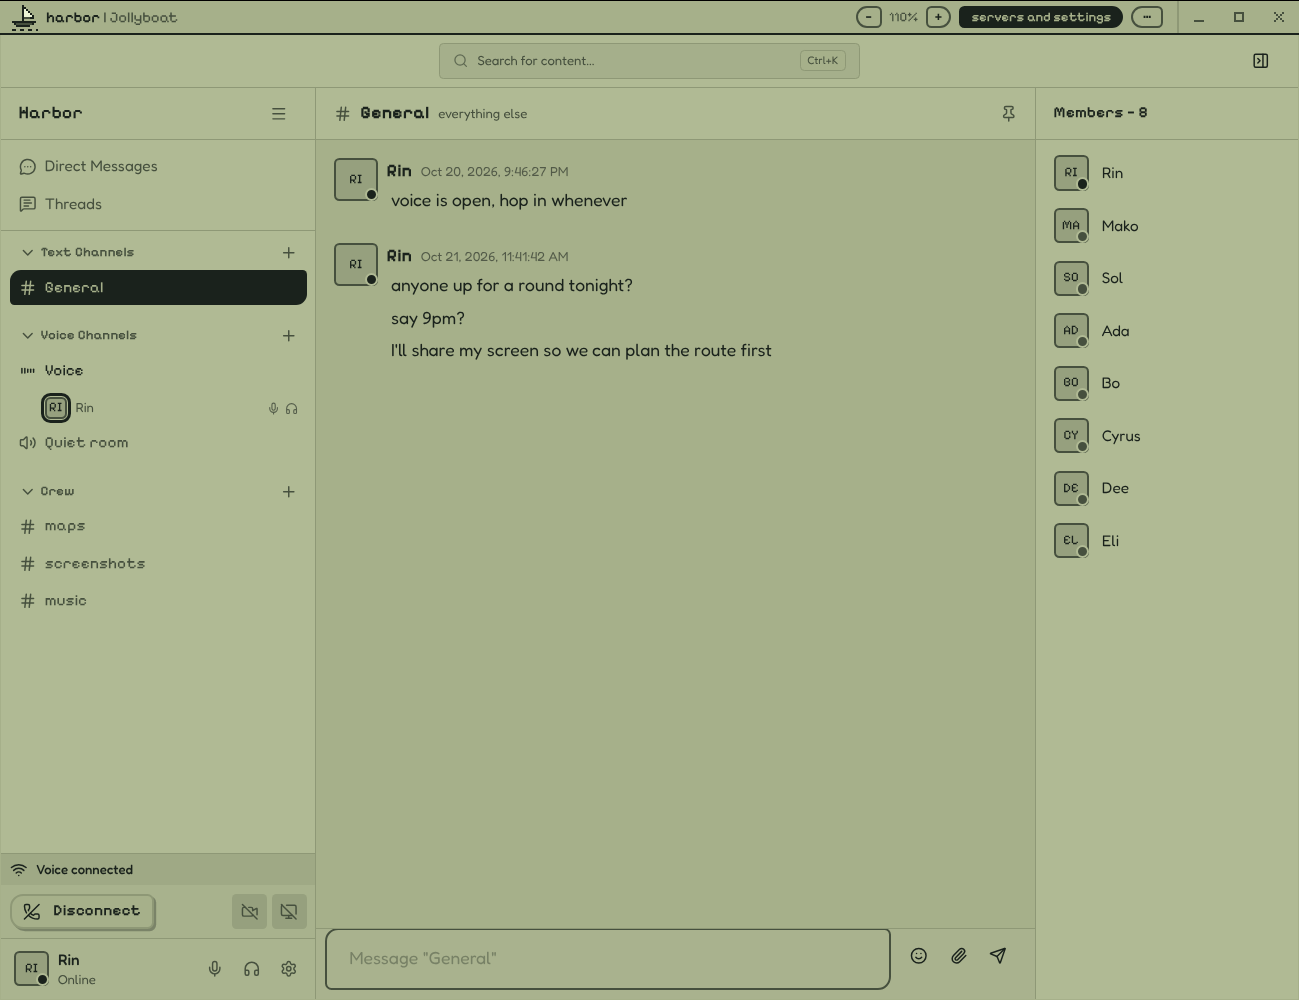
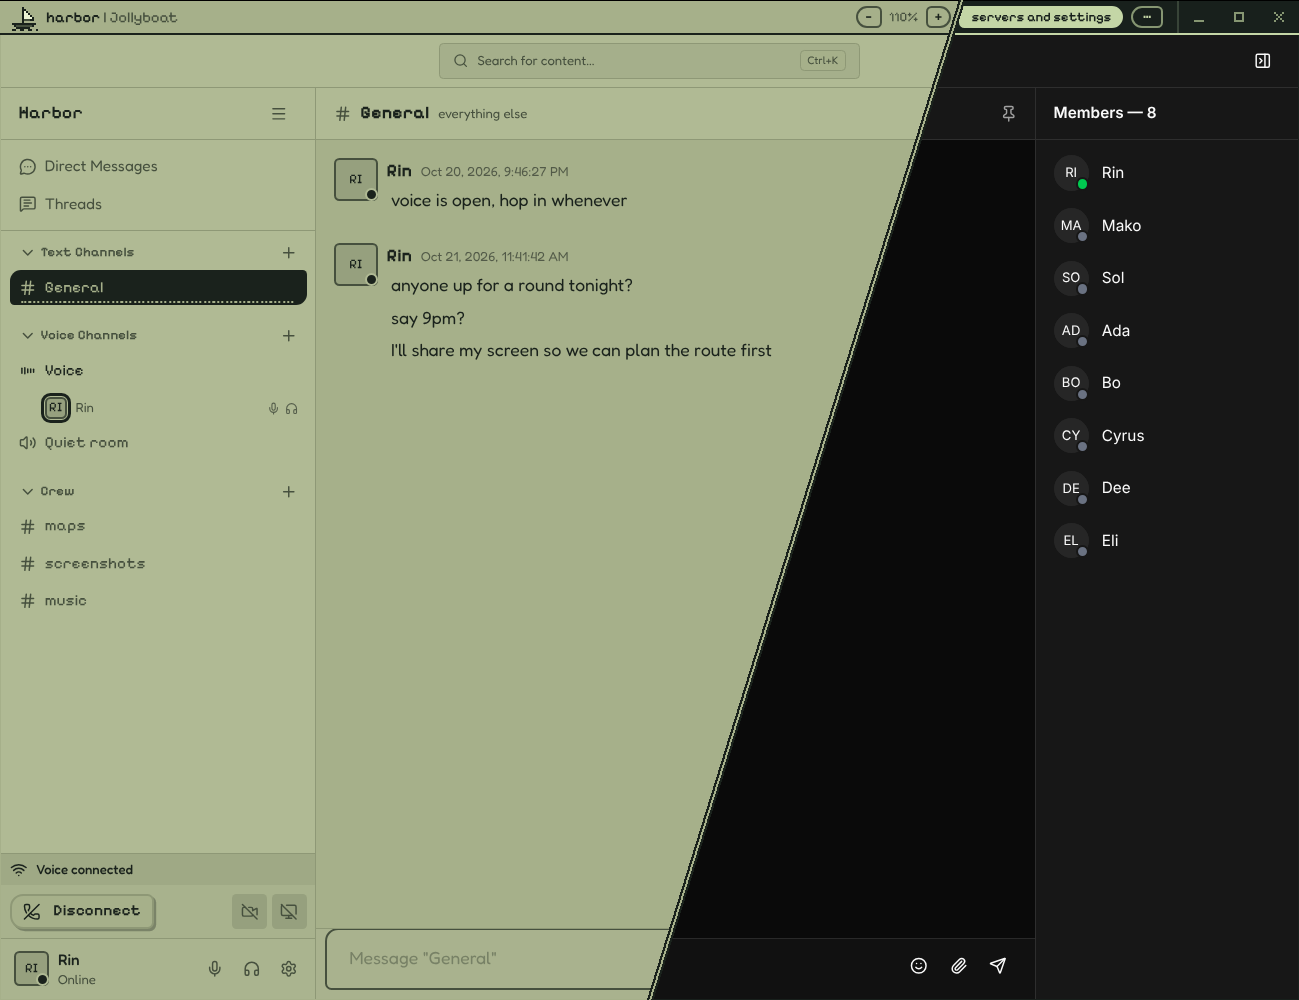
Jollyboat theme moves a little; overlay transparency; no mic check; split screenshot
- the theme takes some of the setup window's motion, all in small steps: the talking outline
  steps out and back (quicker when louder), the active channel gets the bar mark's drifting
  water line, settings cards breathe like the setup panels (and take their shape), menus and
  dialogs rise in, switches snap; a faint lcd grid behind it all. nothing moves with
  prefers-reduced-motion
- the overlay's slider is its transparency now (0 = solid; still stored as opacity)
- the mic check is gone from the settings: Sharkord has its own
- README: the screenshot shows the same server split diagonally, Jollyboat theme on the left,
  Sharkord's own look on the right; fresh settings screenshot

Claude-Session: https://claude.ai/code/session_01QEMnCDTKkcJ4ZdL3ogefjx

diff --git a/resources/themes/lcd.css b/resources/themes/lcd.css
@@ -165,11 +165,13 @@ html .border-r, html .border-l, html .border-b, html .border-t, html .border { b
 
 /* ---- voice ------------------------------------------------------------------------------ */
 
-/* who is talking: an ink outline on the avatar, the louder the thicker, no glow */
-html .speaking-effect-low, html .speaking-effect-medium, html .speaking-effect-high { animation: none; box-shadow: none; }
-html .speaking-effect-low { outline: 2px solid var(--jb-ink); outline-offset: 1px; }
-html .speaking-effect-medium { outline: 3px solid var(--jb-ink); outline-offset: 1px; }
-html .speaking-effect-high { outline: 4px solid var(--jb-ink); outline-offset: 1px; }
+/* who is talking: an ink outline on the avatar that steps out and back like a sound wave on
+   an lcd, the louder the thicker and the quicker. no glow */
+html .speaking-effect-low, html .speaking-effect-medium, html .speaking-effect-high { box-shadow: none; outline-style: solid; outline-color: var(--jb-ink); }
+html .speaking-effect-low { outline-width: 2px; animation: jb-talk 1.2s steps(2, jump-none) infinite; }
+html .speaking-effect-medium { outline-width: 3px; animation: jb-talk 0.8s steps(2, jump-none) infinite; }
+html .speaking-effect-high { outline-width: 4px; animation: jb-talk 0.5s steps(2, jump-none) infinite; }
+@keyframes jb-talk { from { outline-offset: 1px; } to { outline-offset: 3px; } }
 
 /* the few places sharkord colours directly: greens and reds become ink and the one warm tone */
 html [class*="text-green-"], html [class*="text-blue-"], html [class*="text-purple-"] { color: var(--foreground); }
@@ -178,6 +180,52 @@ html .bg-green-500 { background: var(--foreground); }
 html .bg-gray-500, html .bg-yellow-500 { background: var(--jb-dim); }
 html .bg-red-500 { background: var(--destructive); }
 html .border-card { border-color: var(--card); }
+
+/* ---- motion: the setup window's, in small steps ----------------------------------------- */
+
+/* the backdrop: the faint lcd grid of the setup window's paper */
+html body {
+  background-image:
+    linear-gradient(to right, color-mix(in srgb, var(--jb-ink) 5%, transparent) 1px, transparent 1px),
+    linear-gradient(to bottom, color-mix(in srgb, var(--jb-ink) 5%, transparent) 1px, transparent 1px);
+  background-size: 6px 6px;
+}
+
+/* cards (settings, profile) breathe a pixel or two in three steps, like the setup panels */
+html [data-slot="card"] {
+  border: 2px solid var(--jb-ink);
+  border-radius: 26px 12px 24px 14px;
+  box-shadow: 4px 4px 0 var(--jb-shadow);
+  animation: jb-breathe 9s steps(3, jump-none) infinite alternate;
+}
+html [data-slot="card"]:nth-of-type(even) { border-radius: 12px 26px 14px 24px; animation-direction: alternate-reverse; }
+@keyframes jb-breathe { from { transform: translate(0, 0); } to { transform: translate(2px, -2px); } }
+
+/* popovers, menus and dialogs rise in like a setup panel */
+html [data-slot="popover-content"][data-state="open"], html [data-slot="dropdown-menu-content"][data-state="open"],
+html [data-slot="context-menu-content"][data-state="open"], html [data-slot="select-content"][data-state="open"],
+html [data-slot="dialog-content"][data-state="open"], html [data-slot="alert-dialog-content"][data-state="open"] {
+  animation: jb-rise 180ms steps(3, jump-none) both;
+}
+@keyframes jb-rise { from { opacity: 0; translate: 0 6px; } to { opacity: 1; translate: 0 0; } }
+
+/* the channel you are on: the bar mark's water drifting under it, a pixel every 0.4 s */
+html [data-testid="channel-item"].bg-accent { position: relative; }
+html [data-testid="channel-item"].bg-accent::after {
+  content: ''; position: absolute; left: 10px; right: 10px; bottom: 2px; height: 2px; pointer-events: none;
+  background: repeating-linear-gradient(to right, var(--background) 0 2px, transparent 2px 4px);
+  animation: jb-drift 1.6s steps(4) infinite;
+}
+@keyframes jb-drift { from { background-position: 0 0; } to { background-position: 4px 0; } }
+
+/* switches and checkboxes snap over in two steps instead of sliding */
+html [data-slot="switch-thumb"] { transition: transform 120ms steps(2, jump-none); }
+
+/* anyone who asked their system for less motion gets none of it */
+@media (prefers-reduced-motion: reduce) {
+  html [data-slot="card"], html .speaking-effect-low, html .speaking-effect-medium, html .speaking-effect-high,
+  html [data-state="open"], html [data-testid="channel-item"].bg-accent::after { animation: none; }
+}
 
 /* ---- scrollbars ------------------------------------------------------------------------ */
 

diff --git a/src/renderer/launcher/main.ts b/src/renderer/launcher/main.ts
@@ -341,15 +341,16 @@ const renderSettings = async () => {
   $('css-edit').onclick = async () => { await window.shell.editCustomCss(); toast(t('opened in your editor')); };
   $('css-example').onclick = async () => { await window.shell.useCssExample(); toast(t('lcd theme in custom.css')); };
 
-  // voice overlay: on/off and its background; the slider saves as it moves (a little later)
+  // voice overlay: on/off and its transparency; the slider saves as it moves (a little later)
   const overlay = $<HTMLInputElement>('overlay');
   const opacity = $<HTMLInputElement>('overlay-opacity');
+  // the slider is the transparency (0 = solid); stored as the background's opacity
   const showOpacity = () => {
     $('overlay-opacity-value').textContent = `${opacity.value}%`;
     opacity.style.setProperty('--fill', `${opacity.value}%`);
   };
   overlay.checked = settings.overlay;
-  opacity.value = String(settings.overlayOpacity);
+  opacity.value = String(100 - settings.overlayOpacity);
   $('overlay-options').hidden = !overlay.checked;
   if (window.shell.wayland) $('overlay-hint').textContent = t('on top of other windows while you are in a call and Jollyboat is in the background | clicks go through it | on wayland the desktop places it (kde: a window rule keeps it in place and on top)');
   showOpacity();
@@ -365,66 +366,9 @@ const renderSettings = async () => {
   opacity.oninput = () => {
     showOpacity();
     clearTimeout(opacityTimer);
-    opacityTimer = window.setTimeout(() => window.shell.saveSettings({ overlayOpacity: Number(opacity.value) }), 120);
+    opacityTimer = window.setTimeout(() => window.shell.saveSettings({ overlayOpacity: 100 - Number(opacity.value) }), 120);
   };
 
-  // mic check: the level of the default microphone for a few seconds, no server involved
-  const meter = $('mic-meter');
-  const SEGMENTS = 16;
-  meter.replaceChildren(...Array.from({ length: SEGMENTS }, () => document.createElement('i')));
-  const segments = Array.from(meter.children) as HTMLElement[];
-  let micStop: (() => void) | null = null;
-  const showLevel = (level: number, peak: number) => {
-    const lit = Math.round(level * SEGMENTS);
-    const held = Math.round(peak * SEGMENTS);
-    segments.forEach((s, i) => {
-      s.classList.toggle('on', i < lit);
-      s.classList.toggle('peak', i === held - 1 && i >= lit);
-    });
-  };
-  $('mic-test').onclick = async () => {
-    if (micStop) return micStop();
-    let stream: MediaStream;
-    try {
-      stream = await navigator.mediaDevices.getUserMedia({ audio: true });
-    } catch {
-      hint($('mic-status'), t('no microphone'), 'bad');
-      return;
-    }
-    const ctx = new AudioContext();
-    const analyser = ctx.createAnalyser();
-    analyser.fftSize = 512;
-    ctx.createMediaStreamSource(stream).connect(analyser);
-    const samples = new Float32Array(analyser.fftSize);
-    const started = performance.now();
-    let peak = 0;
-    let frame = 0;
-    const tick = () => {
-      analyser.getFloatTimeDomainData(samples);
-      let sum = 0;
-      for (const v of samples) sum += v * v;
-      // rms on a log scale: quiet speech lights a few blocks, a shout all of them
-      const db = 20 * Math.log10(Math.sqrt(sum / samples.length) + 1e-6);
-      const level = Math.min(1, Math.max(0, (db + 50) / 50));
-      peak = Math.max(level, peak - 0.012);
-      showLevel(level, peak);
-      const left = Math.ceil(12 - (performance.now() - started) / 1000);
-      $('mic-status').textContent = t('say something | {s} s', { s: left });
-      if (left <= 0) return micStop?.();
-      frame = requestAnimationFrame(tick);
-    };
-    micStop = () => {
-      cancelAnimationFrame(frame);
-      stream.getTracks().forEach((t) => t.stop());
-      void ctx.close();
-      micStop = null;
-      showLevel(0, 0);
-      $('mic-test').textContent = t('test the mic');
-      hint($('mic-status'), peak > 0.05 ? t('the mic works') : t('nothing heard'), peak > 0.05 ? 'good' : 'bad');
-    };
-    $('mic-test').textContent = t('stop');
-    tick();
-  };
   $('intro-add').onclick = () => $('add-server').click();
 
   // the app's own language; the sharkord page keeps its own setting. a change reloads this page

diff --git a/src/renderer/launcher/index.html b/src/renderer/launcher/index.html
@@ -15,11 +15,6 @@
       .item.failed .meta { color: var(--fg); }
       .col.fill.editing > .settings { display: none; }
       .intro-text { font: 500 15px/1.3 var(--body); color: var(--fg); }
-      /* the mic meter: sixteen lcd blocks, filled up to the level, the peak held a moment */
-      .meter { display: flex; gap: 2px; }
-      .meter i { width: 8px; height: 14px; border: 2px solid var(--dim); border-radius: 2px; }
-      .meter i.on { background: var(--fg); border-color: var(--fg); }
-      .meter i.peak { border-color: var(--fg); }
       .footer { flex: none; display: flex; gap: 6px; align-items: center; flex-wrap: wrap; padding: 0 2px; }
     </style>
   </head>
@@ -113,11 +108,6 @@
             <div class="panel-title" data-i18n>app</div>
             <div class="hint" id="bridge-text"></div>
             <div class="hint" id="screen-audio-text" style="margin-top: 4px"></div>
-            <div class="row" style="margin-top: 8px; gap: 10px">
-              <button class="pill minor small" id="mic-test" data-i18n>test the mic</button>
-              <div class="meter" id="mic-meter" aria-label="mic level"></div>
-              <span class="meta" id="mic-status"></span>
-            </div>
             <div class="row" style="margin-top: 10px"><span class="meta" data-i18n>closing the window</span><div id="on-close"></div></div>
             <div class="row" style="margin-top: 8px"><span class="meta" data-i18n>language</span><div id="language"></div></div>
             <label class="check" id="autostart-row" style="margin-top: 6px"><input type="checkbox" id="autostart" /> <span data-i18n>start with the system</span></label>
@@ -130,8 +120,8 @@
             <label class="check" style="margin-top: 6px"><input type="checkbox" id="overlay" /> <span data-i18n>voice overlay</span></label>
             <div id="overlay-options" hidden>
               <div class="row" style="margin-top: 6px; gap: 10px">
-                <span class="meta" data-i18n>background</span>
-                <input type="range" class="slider" id="overlay-opacity" min="0" max="100" step="5" aria-label="overlay background" />
+                <span class="meta" data-i18n>transparency</span>
+                <input type="range" class="slider" id="overlay-opacity" min="0" max="100" step="5" aria-label="overlay transparency" />
                 <span class="meta" id="overlay-opacity-value" style="min-width: 38px"></span>
               </div>
               <div class="row" style="margin-top: 6px" id="overlay-position-row"><button class="pill minor small" id="overlay-position" data-i18n>set position</button></div>

diff --git a/README.md b/README.md
@@ -4,14 +4,16 @@
 
 A desktop app for [Sharkord](https://sharkord.com) servers, for Windows and Linux on x64 and ARM (macOS experimental). Not affiliated with Sharkord.
 
-![Sharkord in Jollyboat, with the Jollyboat theme](docs/sharkord-theme.png)
+![Sharkord in Jollyboat: the Jollyboat theme on the left, Sharkord's own look on the right](docs/sharkord-theme.png)
+
+<sub>The same server in both themes: Jollyboat's lcd look on the left, Sharkord's own on the right.</sub>
 
 ## What it adds
 
 **In a call**
 - **Screen sharing with sound** — everything you hear except your own call. On Linux the share is encoded on the GPU when it can be.
 - **Global hotkeys and push-to-talk** — mute, deafen and push-to-talk from any window. Set them in Sharkord's user settings (for push-to-talk, pick it as the mic mode). Works on Wayland too (KDE, GNOME 48+), where the desktop asks once.
-- **Voice overlay** (optional) — who is in the call and who is talking, on top of your game or other apps. Clicks go through it; place it once with **set position**.
+- **Voice overlay** (optional) — who is in the call and who is talking, on top of your game or other apps, as see-through as you like. Clicks go through it; place it once with **set position**.
 - **Pop-out stream** — a screen share or camera someone sends, in its own small always-on-top window (ctrl+shift+p, or the button in the bar).
 - **Careful in calls** — asks before a reload or quit would drop you out of a call.
 
@@ -19,7 +21,7 @@ A desktop app for [Sharkord](https://sharkord.com) servers, for Windows and Linu
 - **Tray** — shows when you are in voice, talking, muted, deafened, and new messages. Closing the window minimizes, hides to the tray or quits.
 - **Servers** — several, with proxy logins (basic auth), staying logged in, one that opens at start, and share codes to pass them on.
 - **One bar on top** — server name, zoom, servers and settings, window buttons; light or dark with Sharkord.
-- **Themes** — Sharkord as it is, the **Jollyboat** theme (above), or your own CSS. A mic check in the settings.
+- **Themes** — Sharkord as it is, the **Jollyboat** theme (above, with the setup window's pixel type, pill buttons and a few stepped animations), or your own CSS.
 - **Languages** — English, German and Polish.
 - **Private** — talks to your servers, plus GitHub for update checks (one switch to turn off). No telemetry. On Windows, push-to-talk uses a keyboard hook while a hotkey is set: keys are compared with your hotkeys and never stored or sent.
 
